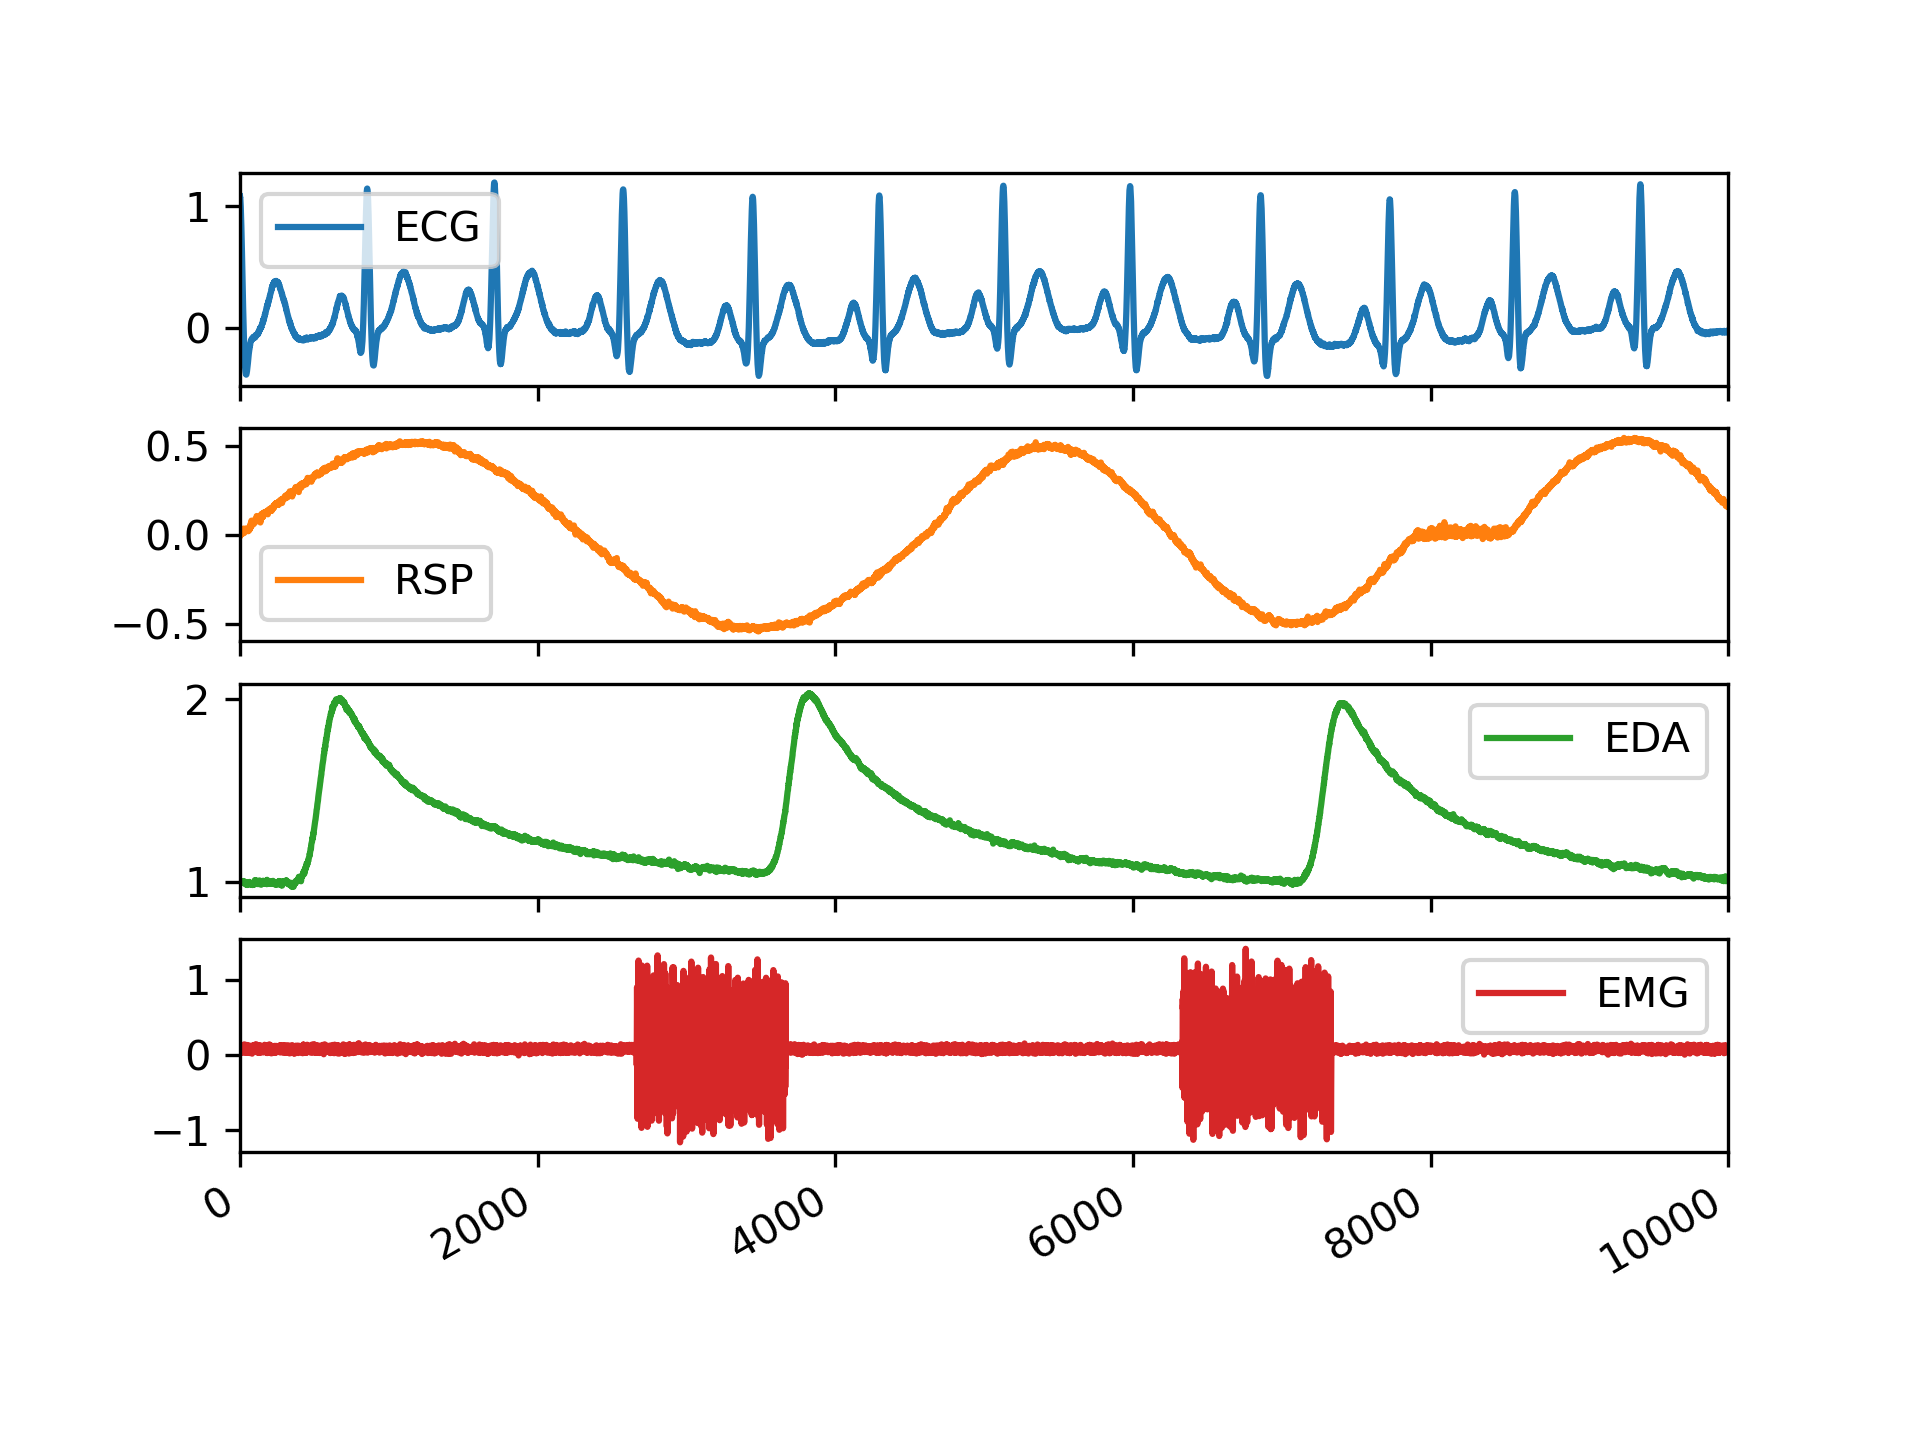
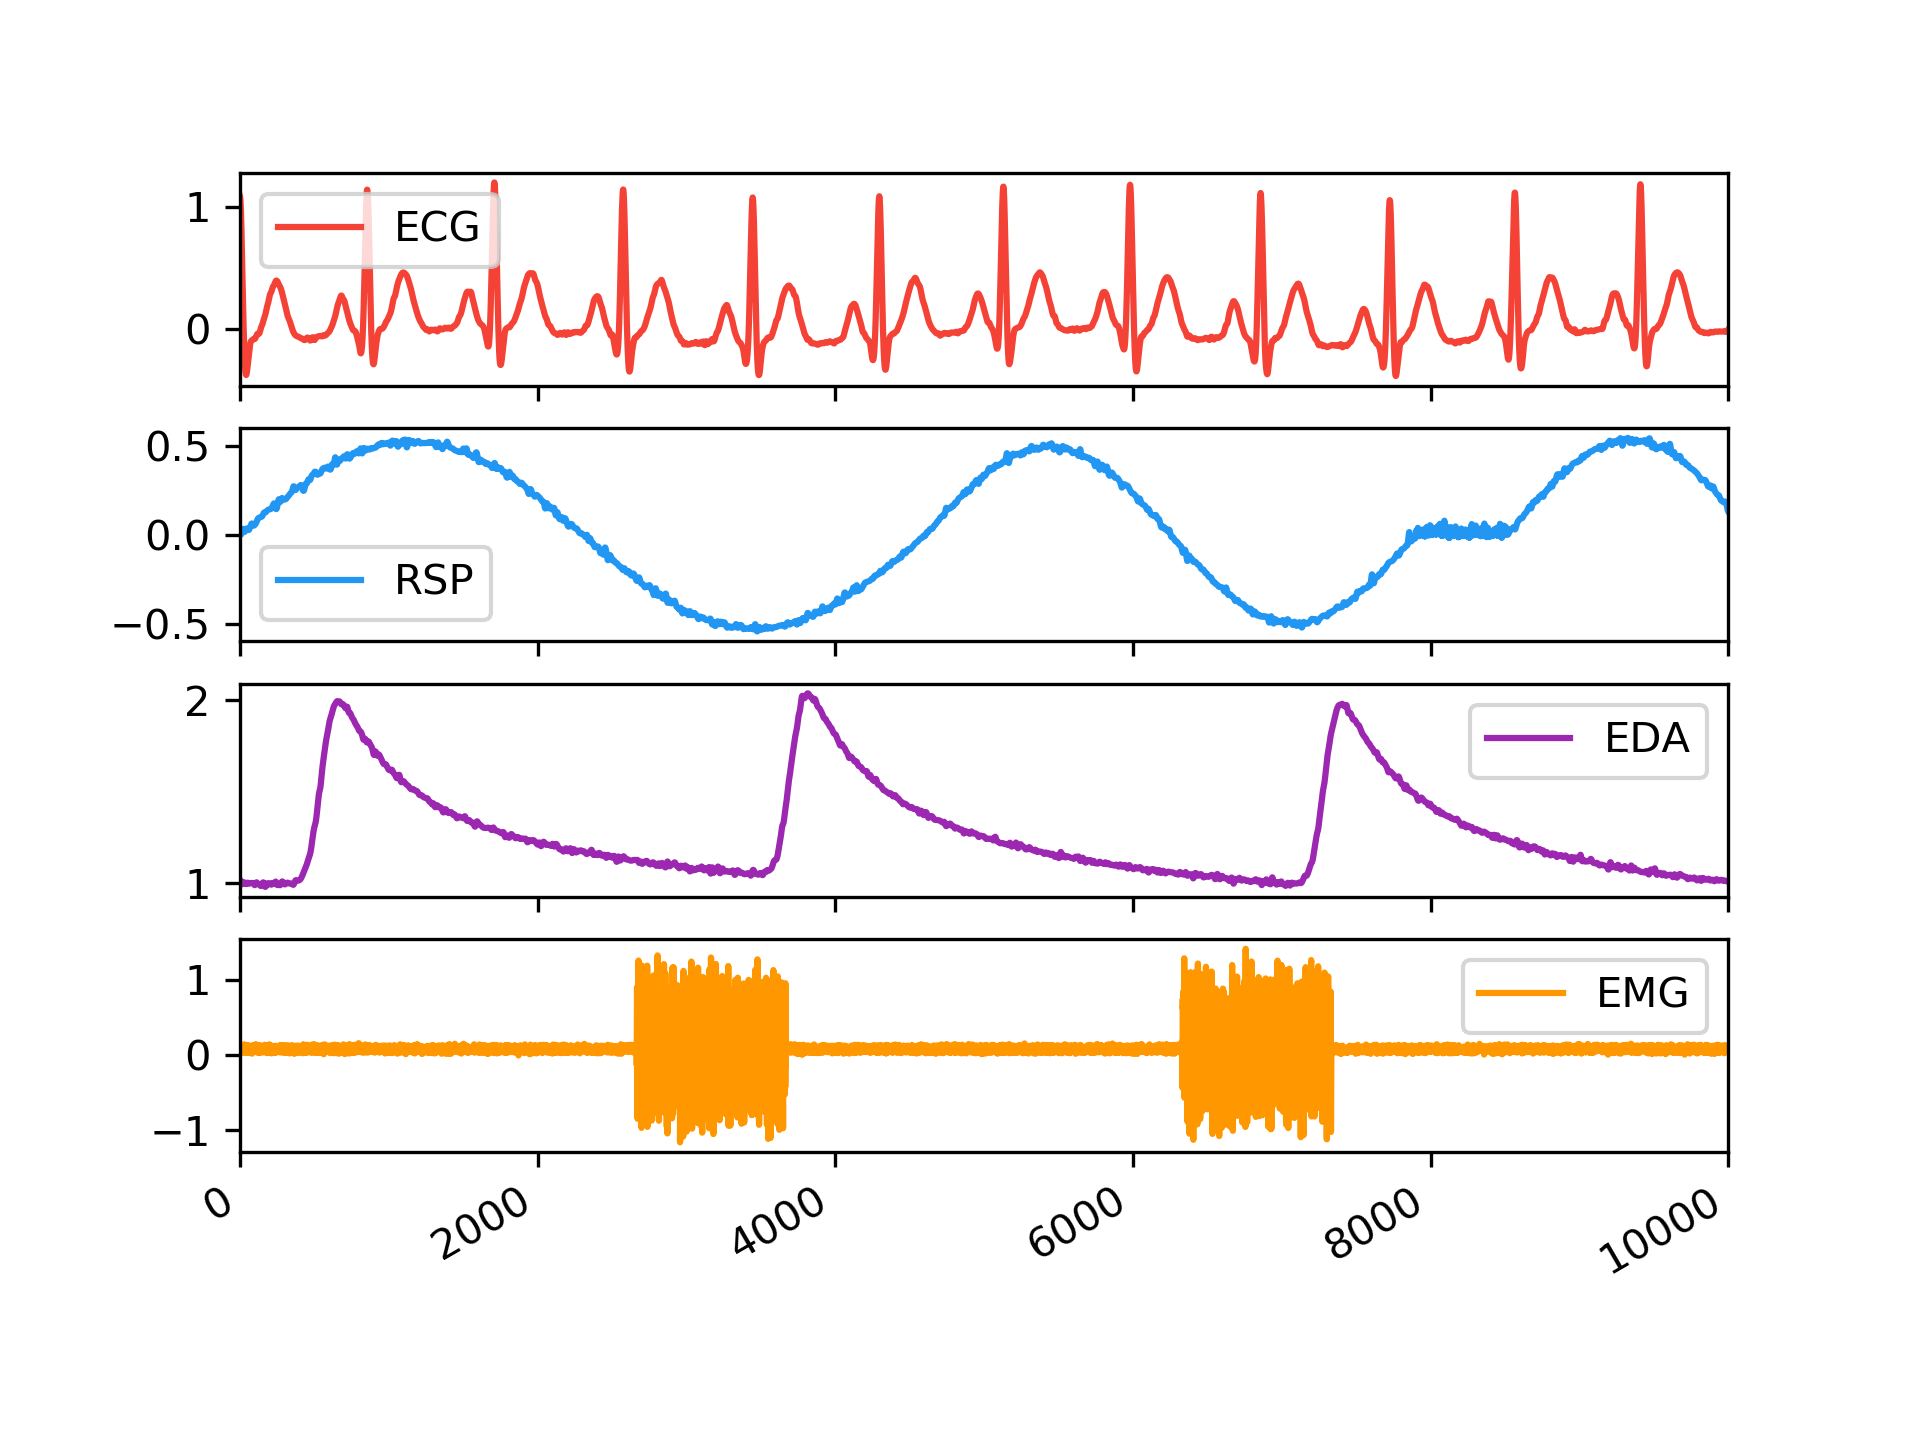
README
close #58

diff --git a/neurokit2/rsp/rsp_plot.py b/neurokit2/rsp/rsp_plot.py
@@ -37,32 +37,50 @@ def rsp_plot(rsp_signals, sampling_rate=None):
     peaks = np.where(rsp_signals["RSP_Peaks"] == 1)[0]
     troughs = np.where(rsp_signals["RSP_Troughs"] == 1)[0]
 
-    fig, (ax0, ax1, ax2) = plt.subplots(nrows=3, ncols=1, sharex=True)
+
+    # Initiate
+    if "RSP_Amplitude" in list(rsp_signals.columns):
+        fig, (ax0, ax1, ax2) = plt.subplots(nrows=3, ncols=1, sharex=True)
+        if sampling_rate is not None:
+            ax2.set_xlabel('Time (s)')
+    else:
+        fig, (ax0, ax1) = plt.subplots(nrows=2, ncols=1, sharex=True)
+        if sampling_rate is not None:
+            ax1.set_xlabel('Time (s)')
+
     plt.subplots_adjust(hspace=0.2)
+
+    # Upper
     ax0.set_title("Raw and Cleaned RSP")
-    ax0.plot(x_axis, rsp_signals["RSP_Raw"], color='#607D8B', label='Raw', zorder=1)
+    fig.suptitle('Respiration (RSP) Processing', fontweight='bold')
+#    ax0.set_ylabel('Amplitude (m)')
+
+    # Plot cleaned and raw
+    ax0.plot(x_axis, rsp_signals["RSP_Raw"], color='#B0BEC5', label='Raw', zorder=1)
     ax0.plot(x_axis, rsp_signals["RSP_Clean"], color='#2196F3', label='Cleaned', zorder=1)
-    ax0.set_ylabel('Amplitude (m)')
     ax0.legend(loc='upper right')
+
+    # Peaks and troughs
     ax0.scatter(x_axis[peaks], rsp_signals["RSP_Clean"][peaks], color='red', zorder=2)
     ax0.scatter(x_axis[troughs], rsp_signals["RSP_Clean"][troughs], color='orange', zorder=2)
+
+    # Rate
     ax1.set_title("Breathing Rate")
-    ax1.plot(x_axis, rsp_signals["RSP_Rate"], color='#4CAF50', label='Data')
+#    ax1.set_ylabel('Inhales per minute')
+    ax1.plot(x_axis, rsp_signals["RSP_Rate"], color='#4CAF50', label='Signal')
     rate_mean = [np.mean(rsp_signals["RSP_Rate"])]*len(rsp_signals["RSP_Rate"])
     ax1.plot(x_axis, rate_mean, label='Mean', linestyle='--', color='#4CAF50')
-    ax1.set_ylabel('Inhales per minute')
     ax1.legend(loc='upper right')
-    ax2.set_title("Breathing Amplitude")
+
     if "RSP_Amplitude" in list(rsp_signals.columns):
-        ax2.plot(x_axis, rsp_signals["RSP_Amplitude"], color='#009688', label='Data')
+        ax2.set_title("Breathing Amplitude")
+#        ax2.set_ylabel('a.u.')
+
+        ax2.plot(x_axis, rsp_signals["RSP_Amplitude"], color='#009688', label='Signal')
         amplitude_mean = [np.mean(rsp_signals["RSP_Amplitude"])]*len(rsp_signals["RSP_Amplitude"])
         ax2.plot(x_axis, amplitude_mean, label='Mean', linestyle='--', color='#009688')
-        ax2.set_ylabel('a.u.')
-    if sampling_rate is not None:
-        ax2.set_xlabel('Time (s)')
-    else:
-        ax2.set_xlabel('Data points')
-    ax2.legend(loc='upper right')
-    fig.suptitle('Respiration (RSP) Processing', fontweight='bold')
+        ax2.legend(loc='upper right')
+
+
     plt.show()
     return fig

diff --git a/docs/img/README_examples.py b/docs/img/README_examples.py
@@ -1,6 +1,6 @@
 import numpy as np
 import pandas as pd
-import neurokit2 as nk
+#import neurokit2 as nk
 
 
 # =============================================================================
@@ -22,7 +22,7 @@ data.plot(subplots=True, layout=(4, 1))
 
 
 # Save it
-plot = data.plot(subplots=True, layout=(4, 1))
+plot = data.plot(subplots=True, layout=(4, 1), color=['#f44336', "#2196F3", "#9C27B0", "#FF9800"])
 plot[0][0].get_figure().savefig("README_simulation.png", dpi=300)
 
 
